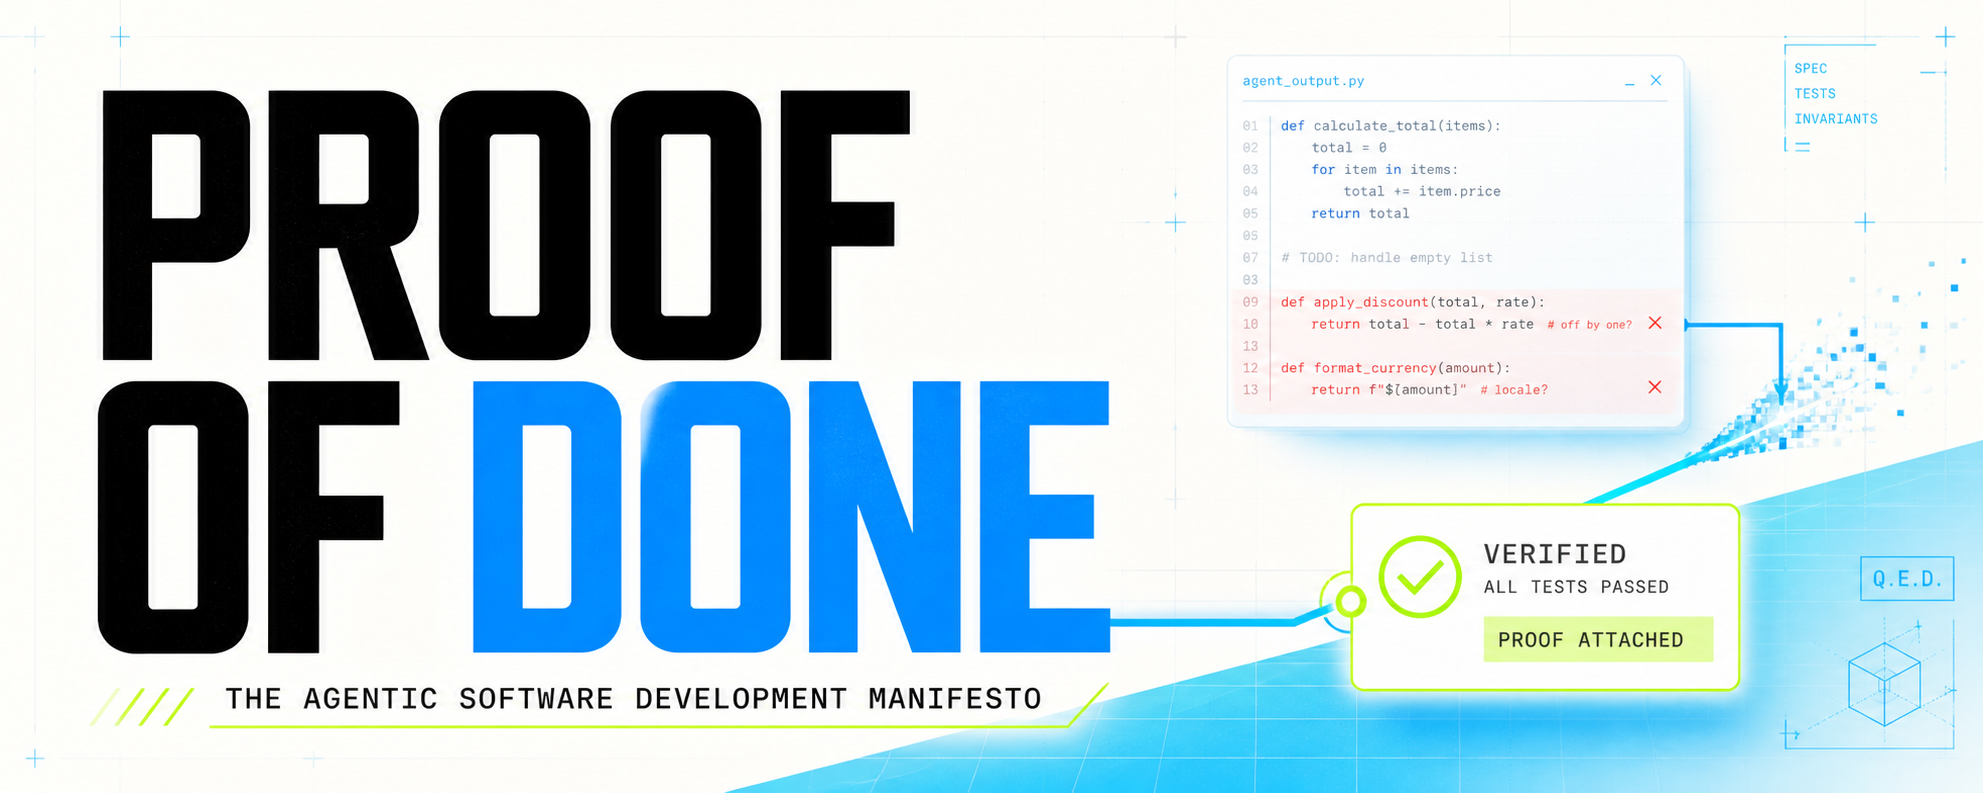
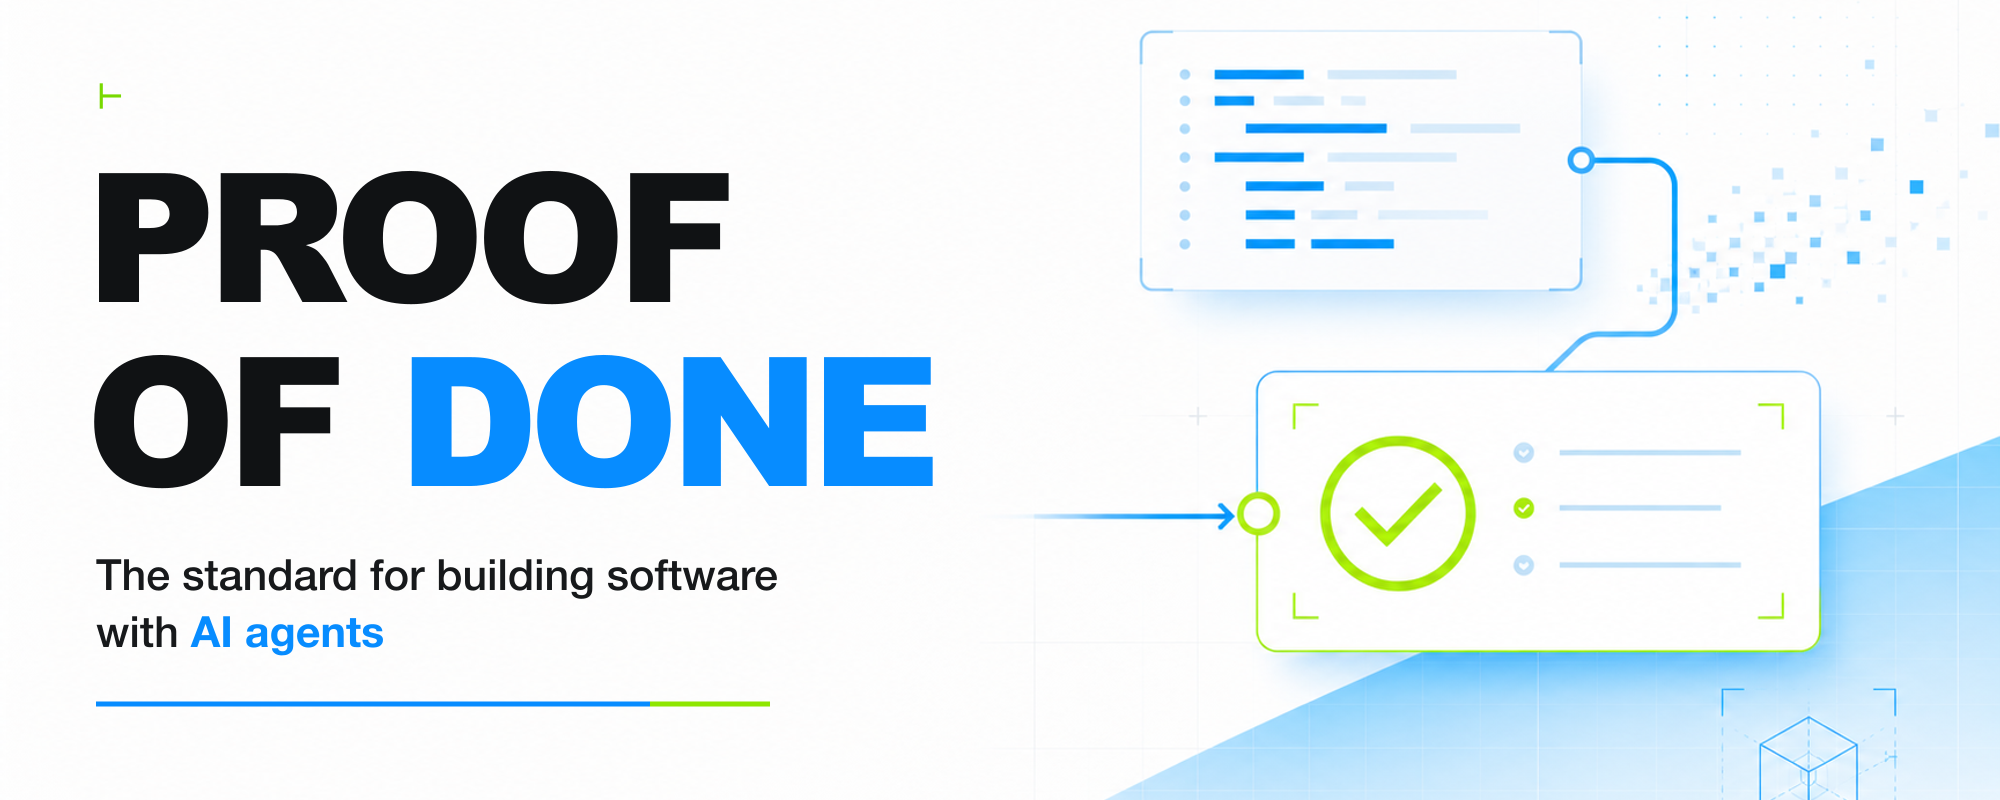
Release v1.1 with the Proof of Done product line

diff --git a/index.html b/index.html
@@ -3,8 +3,8 @@
 <head>
 <meta charset="utf-8">
 <meta name="viewport" content="width=device-width, initial-scale=1, viewport-fit=cover">
-<title>Proof of Done — The Agentic Software Development Manifesto</title>
-<meta name="description" content="A foundation for building software when agents write the code. Done is not the last message of the run. Done is a state of the system that can be proven.">
+<title>Proof of Done | The standard for building software with AI agents</title>
+<meta name="description" content="The standard for building software with AI agents. Done is not the last message of the run. Done is a state of the system that can be proven.">
 <meta name="author" content="Sergey Sheleg (Siarhei Sheleh)">
 <link rel="canonical" href="https://podmanifesto.org/">
 <!-- One theme-color, no media condition: the system preference does not decide this
@@ -16,16 +16,16 @@
 
 <meta property="og:type" content="article">
 <meta property="og:site_name" content="Proof of Done">
-<meta property="og:title" content="Proof of Done — The Agentic Software Development Manifesto">
-<meta property="og:description" content="When agents write the code, done is not the last message of the run. Done is a state of the system that can be proven.">
+<meta property="og:title" content="Proof of Done">
+<meta property="og:description" content="The standard for building software with AI agents">
 <meta property="og:url" content="https://podmanifesto.org/">
-<meta property="og:image" content="https://podmanifesto.org/og.png?v=f2076ede00">
+<meta property="og:image" content="https://podmanifesto.org/assets/og.png?v=94d773dbb9">
 <meta property="og:image:width" content="1200">
 <meta property="og:image:height" content="630">
 <meta name="twitter:card" content="summary_large_image">
-<meta name="twitter:title" content="Proof of Done — The Agentic Software Development Manifesto">
-<meta name="twitter:description" content="When agents write the code, done is not the last message of the run. Done is a state of the system that can be proven.">
-<meta name="twitter:image" content="https://podmanifesto.org/og.png?v=f2076ede00">
+<meta name="twitter:title" content="Proof of Done">
+<meta name="twitter:description" content="The standard for building software with AI agents">
+<meta name="twitter:image" content="https://podmanifesto.org/assets/og.png?v=94d773dbb9">
 
 <link rel="icon" href="/favicon.svg?v=d79f4d92bc" type="image/svg+xml">
 <!-- The same turnstile as a raster, for the surfaces that will not take an SVG:
@@ -39,7 +39,7 @@
 <link rel="preload" href="/assets/fonts/geist-latin.woff2?v=9b6f5ff45b" as="font" type="font/woff2" crossorigin>
 <link rel="preload" href="/assets/fonts/jetbrains-mono-latin.woff2?v=1e06740a02" as="font" type="font/woff2" crossorigin>
 <link rel="stylesheet" href="/assets/fonts/fonts.css?v=e9ff3f16cd">
-<link rel="stylesheet" href="/assets/style.css?v=c79d6d4a76">
+<link rel="stylesheet" href="/assets/style.css?v=c0677413d1">
 
 <script>
   document.documentElement.classList.remove('no-js');
@@ -54,15 +54,15 @@
   "@context": "https://schema.org",
   "@type": "Article",
   "headline": "Proof of Done: The Agentic Software Development Manifesto",
-  "alternativeHeadline": "A foundation for building software when agents write the code",
+  "alternativeHeadline": "The standard for building software with AI agents",
   "description": "Proof of Done requires every completion claim between an intended outcome and an accepted result to point to its supporting record at an address another actor can resolve; if the address does not resolve, the claim is not proven.",
   "url": "https://podmanifesto.org/",
   "inLanguage": "en",
   "dateModified": "2026-08-25",
   "datePublished": "2026-08-17",
-  "version": "1.0",
+  "version": "1.1",
   "license": "https://creativecommons.org/licenses/by/4.0/",
-  "image": "https://podmanifesto.org/og.png?v=f2076ede00",
+  "image": "https://podmanifesto.org/assets/og.png?v=94d773dbb9",
   "author": {
     "@type": "Person",
     "name": "Sergey Sheleg",
@@ -91,10 +91,10 @@
 
 <header class="topbar">
   <div class="topbar__in">
-    <a class="topbar__mark" href="#top" aria-label="Proof of Done v1.0 — top of document">
+    <a class="topbar__mark" href="#top" aria-label="Proof of Done v1.1, top of document">
       <span class="glyph" aria-hidden="true">&#8866;</span>
       <span class="topbar__name">PROOF&nbsp;OF&nbsp;DONE</span>
-      <span class="topbar__ver">v1.0</span>
+      <span class="topbar__ver">v1.1</span>
     </a>
     <div class="topbar__actions">
       <a class="tbtn tbtn--wide" href="/manifesto.md">Plain text</a>
@@ -115,12 +115,12 @@
       <span class="masthead__glyph" aria-hidden="true">&#8866;</span>
       Proof&nbsp;of&nbsp;Done
     </h1>
-    <p class="masthead__sub">The Agentic Software Development Manifesto</p>
-    <p class="masthead__lede">A foundation for building software when agents write the code.</p>
+    <p class="masthead__sub">The standard for building software with AI agents.</p>
+    <p class="masthead__lede">Done is not the last message of the run. Done is a state of the system that can be proven.</p>
 
     <dl class="docmeta">
       <div><dt>Document</dt><dd>POD&#8202;/&#8202;001</dd></div>
-      <div><dt>Version</dt><dd>1.0</dd></div>
+      <div><dt>Version</dt><dd>1.1</dd></div>
       <div><dt>Published</dt><dd><time datetime="2026-08-17">2026-08-17</time></dd></div>
       <div><dt>Updated</dt><dd><time class="docmeta__updated" datetime="2026-08-25">2026-08-25</time></dd></div>
       <div><dt>Author</dt><dd>Sergey Sheleg <span class="muted">(Siarhei Sheleh)</span></dd></div>
@@ -731,7 +731,7 @@ support. Tests pass.</code></pre>
     <span class="sign__rule" aria-hidden="true"></span>
     <span class="sign__name">Sergey Sheleg</span>
     <span class="sign__alt">Siarhei Sheleh</span>
-    <span class="sign__meta">POD/001 &#183; v1.0 &#183; 2026-08-17</span>
+    <span class="sign__meta">POD/001 &#183; v1.1 &#183; 2026-08-17</span>
   </p>
 </section>
 
@@ -793,13 +793,13 @@ support. Tests pass.</code></pre>
     <div class="colophon__grid">
       <dl class="record">
         <div><dt>Document</dt><dd>POD/001 &#8212; Proof of Done: The Agentic Software Development Manifesto</dd></div>
-        <div><dt>Version</dt><dd>1.0</dd></div>
+        <div><dt>Version</dt><dd>1.1</dd></div>
         <div><dt>Published</dt><dd><time datetime="2026-08-17">2026-08-17</time></dd></div>
         <div><dt>Author</dt><dd>Sergey Sheleg <span class="muted">(Siarhei Sheleh)</span> &#183; <a href="https://github.com/ssheleg">github.com/ssheleg</a></dd></div>
         <div><dt>Canonical</dt><dd><a href="https://podmanifesto.org/">podmanifesto.org</a></dd></div>
         <div><dt>Source</dt><dd><a href="https://github.com/ssheleg/pod-manifesto">github.com/ssheleg/pod-manifesto</a></dd></div>
         <div><dt>Readers</dt><dd>humans and agents</dd></div>
-        <div><dt>Cite this version</dt><dd><a href="https://github.com/ssheleg/pod-manifesto/blob/v1.0/manifesto.md">blob/v1.0/manifesto.md</a> &#8212; frozen at the tag, so a quotation stays reachable after the text moves on. What changes and when: <a href="https://github.com/ssheleg/pod-manifesto/blob/main/CHANGELOG.md">CHANGELOG</a></dd></div>
+        <div><dt>Cite this version</dt><dd><a href="https://github.com/ssheleg/pod-manifesto/blob/v1.1/manifesto.md">blob/v1.1/manifesto.md</a> &#8212; frozen at the tag, so a quotation stays reachable after the text moves on. What changes and when: <a href="https://github.com/ssheleg/pod-manifesto/blob/main/CHANGELOG.md">CHANGELOG</a></dd></div>
         <div><dt>Disagree</dt><dd><a href="https://github.com/ssheleg/pod-manifesto/blob/main/CONTRIBUTING.md">how to argue with this document</a> &#8212; the licence invites it, and an invitation with no address is decoration</dd></div>
         <div><dt>Text licence</dt><dd><a href="https://creativecommons.org/licenses/by/4.0/">CC BY 4.0</a> &#8212; quote it, translate it, adopt it, argue with it; keep the attribution and the link</dd></div>
         <div><dt>Site licence</dt><dd><a href="https://github.com/ssheleg/pod-manifesto/blob/main/LICENSE">MIT</a></dd></div>
@@ -853,7 +853,7 @@ support. Tests pass.</code></pre>
     </div>
 
     <p class="colophon__end">The agent may write the code. The system must carry the proof.</p>
-    <p class="colophon__fine">Sergey Sheleg &#183; POD/001 &#183; v1.0 &#183; 2026</p>
+    <p class="colophon__fine">Sergey Sheleg &#183; POD/001 &#183; v1.1 &#183; 2026</p>
   </div>
 </footer>
 

diff --git a/404.html b/404.html
@@ -16,7 +16,7 @@
 <link rel="icon" href="/assets/logo-512.png?v=6f076cb47f" type="image/png" sizes="512x512">
 <link rel="apple-touch-icon" href="/assets/apple-touch-icon.png?v=0c3fcd32fb">
 <link rel="stylesheet" href="/assets/fonts/fonts.css?v=e9ff3f16cd">
-<link rel="stylesheet" href="/assets/style.css?v=c79d6d4a76">
+<link rel="stylesheet" href="/assets/style.css?v=c0677413d1">
 
 <script>
   document.documentElement.classList.remove('no-js');

diff --git a/assets/style.css b/assets/style.css
@@ -254,10 +254,10 @@ p code, li code, td code, dd code {
 .masthead__sub {
   font-family: var(--mono);
   font-size: clamp(.9rem, 2.2vw, 1.15rem);
-  letter-spacing: .08em;
+  letter-spacing: .02em;
   color: var(--ink-2);
   margin: .35rem 0 0;
-  text-transform: uppercase;
+  text-transform: none;
 }
 .masthead__lede {
   font-size: clamp(1.05rem, 2.2vw, 1.25rem);

diff --git a/tools/negatives.py b/tools/negatives.py
@@ -122,7 +122,7 @@ def plant_swapped_sections(tree):
 
 
 def plant_version_ahead_of_tag(tree):
-    """Tag v1.0, then bump every stated version to 9.9 — consistently.
+    """Tag the current release, then bump every stated version to 9.9 consistently.
 
     The interesting failure is not two files disagreeing; that is the case above.
     It is the whole document agreeing on a version no tag carries, because then
@@ -138,7 +138,10 @@ def plant_version_ahead_of_tag(tree):
     git("init", "-q")
     git("add", "-A")
     git("commit", "-q", "-m", "baseline")
-    git("tag", "v1.0")
+    changelog = (tree / "CHANGELOG.md").read_text(encoding="utf-8")
+    current_match = re.search(r"^## v([0-9]+\.[0-9]+)(?:\s*[—:]\s*)", changelog, re.M)
+    current = current_match.group(1) if current_match else "1.0"
+    git("tag", f"v{current}")
 
     changed, first = 0, None
     for rel in ("index.html", "llms.txt", "CHANGELOG.md", "README.md"):
@@ -146,13 +149,14 @@ def plant_version_ahead_of_tag(tree):
         if not p.exists():
             continue
         before = p.read_text(encoding="utf-8")
-        after = (before.replace('"version": "1.0"', '"version": "9.9"')
-                       .replace('topbar__ver">v1.0<', 'topbar__ver">v9.9<')
-                       .replace("<dt>Version</dt><dd>1.0</dd>", "<dt>Version</dt><dd>9.9</dd>")
-                       .replace("POD/001 &#183; v1.0", "POD/001 &#183; v9.9")
-                       .replace("Version 1.0,", "Version 9.9,")
-                       .replace("## v1.0 — ", "## v9.9 — ")
-                       .replace("blob/v1.0/", "blob/v9.9/"))
+        after = (before.replace(f'"version": "{current}"', '"version": "9.9"')
+                       .replace(f'topbar__ver">v{current}<', 'topbar__ver">v9.9<')
+                       .replace(f"<dt>Version</dt><dd>{current}</dd>", "<dt>Version</dt><dd>9.9</dd>")
+                       .replace(f"POD/001 &#183; v{current}", "POD/001 &#183; v9.9")
+                       .replace(f"Version {current},", "Version 9.9,")
+                       .replace(f"## v{current} — ", "## v9.9 — ")
+                       .replace(f"## v{current}: ", "## v9.9: ")
+                       .replace(f"blob/v{current}/", "blob/v9.9/"))
         if after != before:
             p.write_text(after, encoding="utf-8")
             changed += 1
@@ -273,9 +277,10 @@ CASES = [
         name="version: one of the nine statements of the version disagrees",
         gate=["tools/check-version.py"],
         expect=r"every stated version agrees|do not agree",
-        plant=lambda t: replace_once(t, "index.html",
-                                     '<dt>Version</dt><dd>1.0</dd>',
-                                     '<dt>Version</dt><dd>1.1</dd>'),
+        plant=lambda t: sub_once(
+            t, "index.html",
+            r'(<dt>Version</dt><dd>)[0-9]+\.[0-9]+(</dd>)',
+            r'\g<1>9.8\g<2>'),
     ),
     dict(
         name="version: every statement agrees, and none of them is the tag",

diff --git a/tools/check-version.py b/tools/check-version.py
@@ -36,7 +36,7 @@ PATTERNS = [
     (r'<dt>Version</dt><dd>([0-9]+\.[0-9]+)</dd>', "a Version row"),
     (r'POD/001 &#183; v([0-9]+\.[0-9]+)', "a POD/001 signature"),
     (r'\bVersion ([0-9]+\.[0-9]+),', "a prose 'Version N.N,'"),
-    (r'^## v([0-9]+\.[0-9]+) — ', "the changelog's newest entry"),
+    (r'^## v([0-9]+\.[0-9]+)(?:\s*[—:]\s*)', "the changelog's newest entry"),
 ]
 FILES = ["index.html", "404.html", "llms.txt", "CHANGELOG.md", "README.md"]
 
@@ -74,7 +74,13 @@ def main() -> int:
             continue
         text = path.read_text(encoding="utf-8")
         for pattern, label in PATTERNS:
-            for m in re.finditer(pattern, text, re.M):
+            matches = list(re.finditer(pattern, text, re.M))
+            # A changelog contains every released version. Only the first
+            # version heading is the current one; scanning all headings made
+            # the version gate reject the second release by construction.
+            if label == "the changelog's newest entry":
+                matches = matches[:1]
+            for m in matches:
                 line = text.count("\n", 0, m.start()) + 1
                 found.append((m.group(1), f"{rel}:{line} ({label})"))
                 if verbose:

diff --git a/tools/stamp-assets.py b/tools/stamp-assets.py
@@ -32,8 +32,8 @@ FONTS = ROOT / "assets" / "fonts" / "fonts.css"
 # Two holes were measured on 2026-08-20 and closed here, because the README
 # described this gate as covering "every asset URL":
 #
-#   1. `og.png` is referenced three times as an ABSOLUTE url
-#      (https://podmanifesto.org/og.png — og:image and twitter:image require it),
+#   1. `assets/og.png` is referenced three times as an ABSOLUTE url
+#      (https://podmanifesto.org/assets/og.png — og:image and twitter:image require it),
 #      and the root-relative pattern never matched it. A changed preview image
 #      would have kept its url forever.
 #   2. `fonts.css` carries its own four `url()` references. Its hash covers the
@@ -48,7 +48,7 @@ REF = re.compile(
     r'(?P<attr>href|src|content)="(?P<origin>https://podmanifesto\.org)?'
     r'(?P<url>/(?:assets/[^"?]+|favicon\.svg|og\.png))(?:\?v=[0-9a-f]+)?"'
 )
-# "image": "https://podmanifesto.org/og.png" inside the JSON-LD block — a
+# "image": "https://podmanifesto.org/assets/og.png" inside the JSON-LD block — a
 # crawler fetches it like any other asset, so it carries a fingerprint too.
 JSONLD_REF = re.compile(
     r'(?P<attr>"image":\s*")(?P<origin>https://podmanifesto\.org)'

diff --git a/CONTRIBUTING.md b/CONTRIBUTING.md
@@ -29,7 +29,7 @@ not evidence in either direction.
 
 **Open an issue.** One objection per issue, naming the section. `manifesto.md` line numbers
 move between versions — quote the sentence instead, or cite the tag:
-`https://github.com/ssheleg/pod-manifesto/blob/v1.0/manifesto.md`.
+`https://github.com/ssheleg/pod-manifesto/blob/v1.1/manifesto.md`.
 
 A pull request against the canonical text is welcome for a factual error, a broken
 reference, a number that no longer computes, or a typo. For an argument, open the issue
@@ -42,7 +42,7 @@ There are none yet, and the licence permits them: CC BY 4.0, attribution and a l
 If you translate it, open an issue with the address and it will be linked from here and
 from the document. Two requests, both from the text's own doctrine: translate the canonical
 sentences rather than a summary of them, and state the version you translated — a
-translation of v1.0 stays a translation of v1.0 after this document reaches v1.1.
+translation of v1.1 stays a translation of v1.1 after this document reaches v1.2.
 
 ## The site and the tooling
 

diff --git a/manifesto.md b/manifesto.md
@@ -1,6 +1,6 @@
 # Proof of Done: The Agentic Software Development Manifesto
 
-**A foundation for building software when agents write the code.**
+**The standard for building software with AI agents.**
 
 The task inventory was empty. The process was still running. I found this during a real agent run (not a simulation arranged to make the point): a monitor had been started to poll a remote check, the harness reported `No tasks found` one minute later, and the operating system still showed the poller alive more than 3 minutes after it started. Both observations were accurate. They were simply observations of different things. [E1](https://github.com/ssheleg/task-pipeline/blob/f0402c22b147d6d143c55833ef906fb817972ab9/plugins/task-pipeline/skills/task-pipeline/references/residue.md#L28-L62)
 

diff --git a/README.md b/README.md
@@ -1,6 +1,8 @@
 # Proof of Done: The Agentic Software Development Manifesto
 
-**A foundation for building software when agents write the code.**
+![Proof of Done. The standard for building software with AI agents.](assets/og.png)
+
+**The standard for building software with AI agents.**
 
 > When agents write the code, done is not the last message of the run.
 > Done is a state of the system that can be proven.
@@ -137,7 +139,7 @@ The live page moves with the version; the tag does not. If a quotation has to st
 reachable, cite the tag:
 
 ```
-https://github.com/ssheleg/pod-manifesto/blob/v1.0/manifesto.md
+https://github.com/ssheleg/pod-manifesto/blob/v1.1/manifesto.md
 ```
 
 The canonical text does not change without a new version and an entry in

diff --git a/CHANGELOG.md b/CHANGELOG.md
@@ -12,8 +12,20 @@ document are not, and are not listed.
 Every released version is a git tag. The tag is the citable address:
 
 ```
-https://github.com/ssheleg/pod-manifesto/blob/v1.0/manifesto.md
+https://github.com/ssheleg/pod-manifesto/blob/v1.1/manifesto.md
 ```
+
+---
+
+## v1.1: 2026-08-25
+
+The positioning line now names what the manifesto is for: **The standard for building
+software with AI agents.** It replaces "A foundation for building software when agents
+write the code."
+
+No protocol, definition, belief or engineering requirement changed. This release changes
+one canonical line so the manifesto, its site, repository and social preview introduce the
+same thing in the same words.
 
 ---
 
